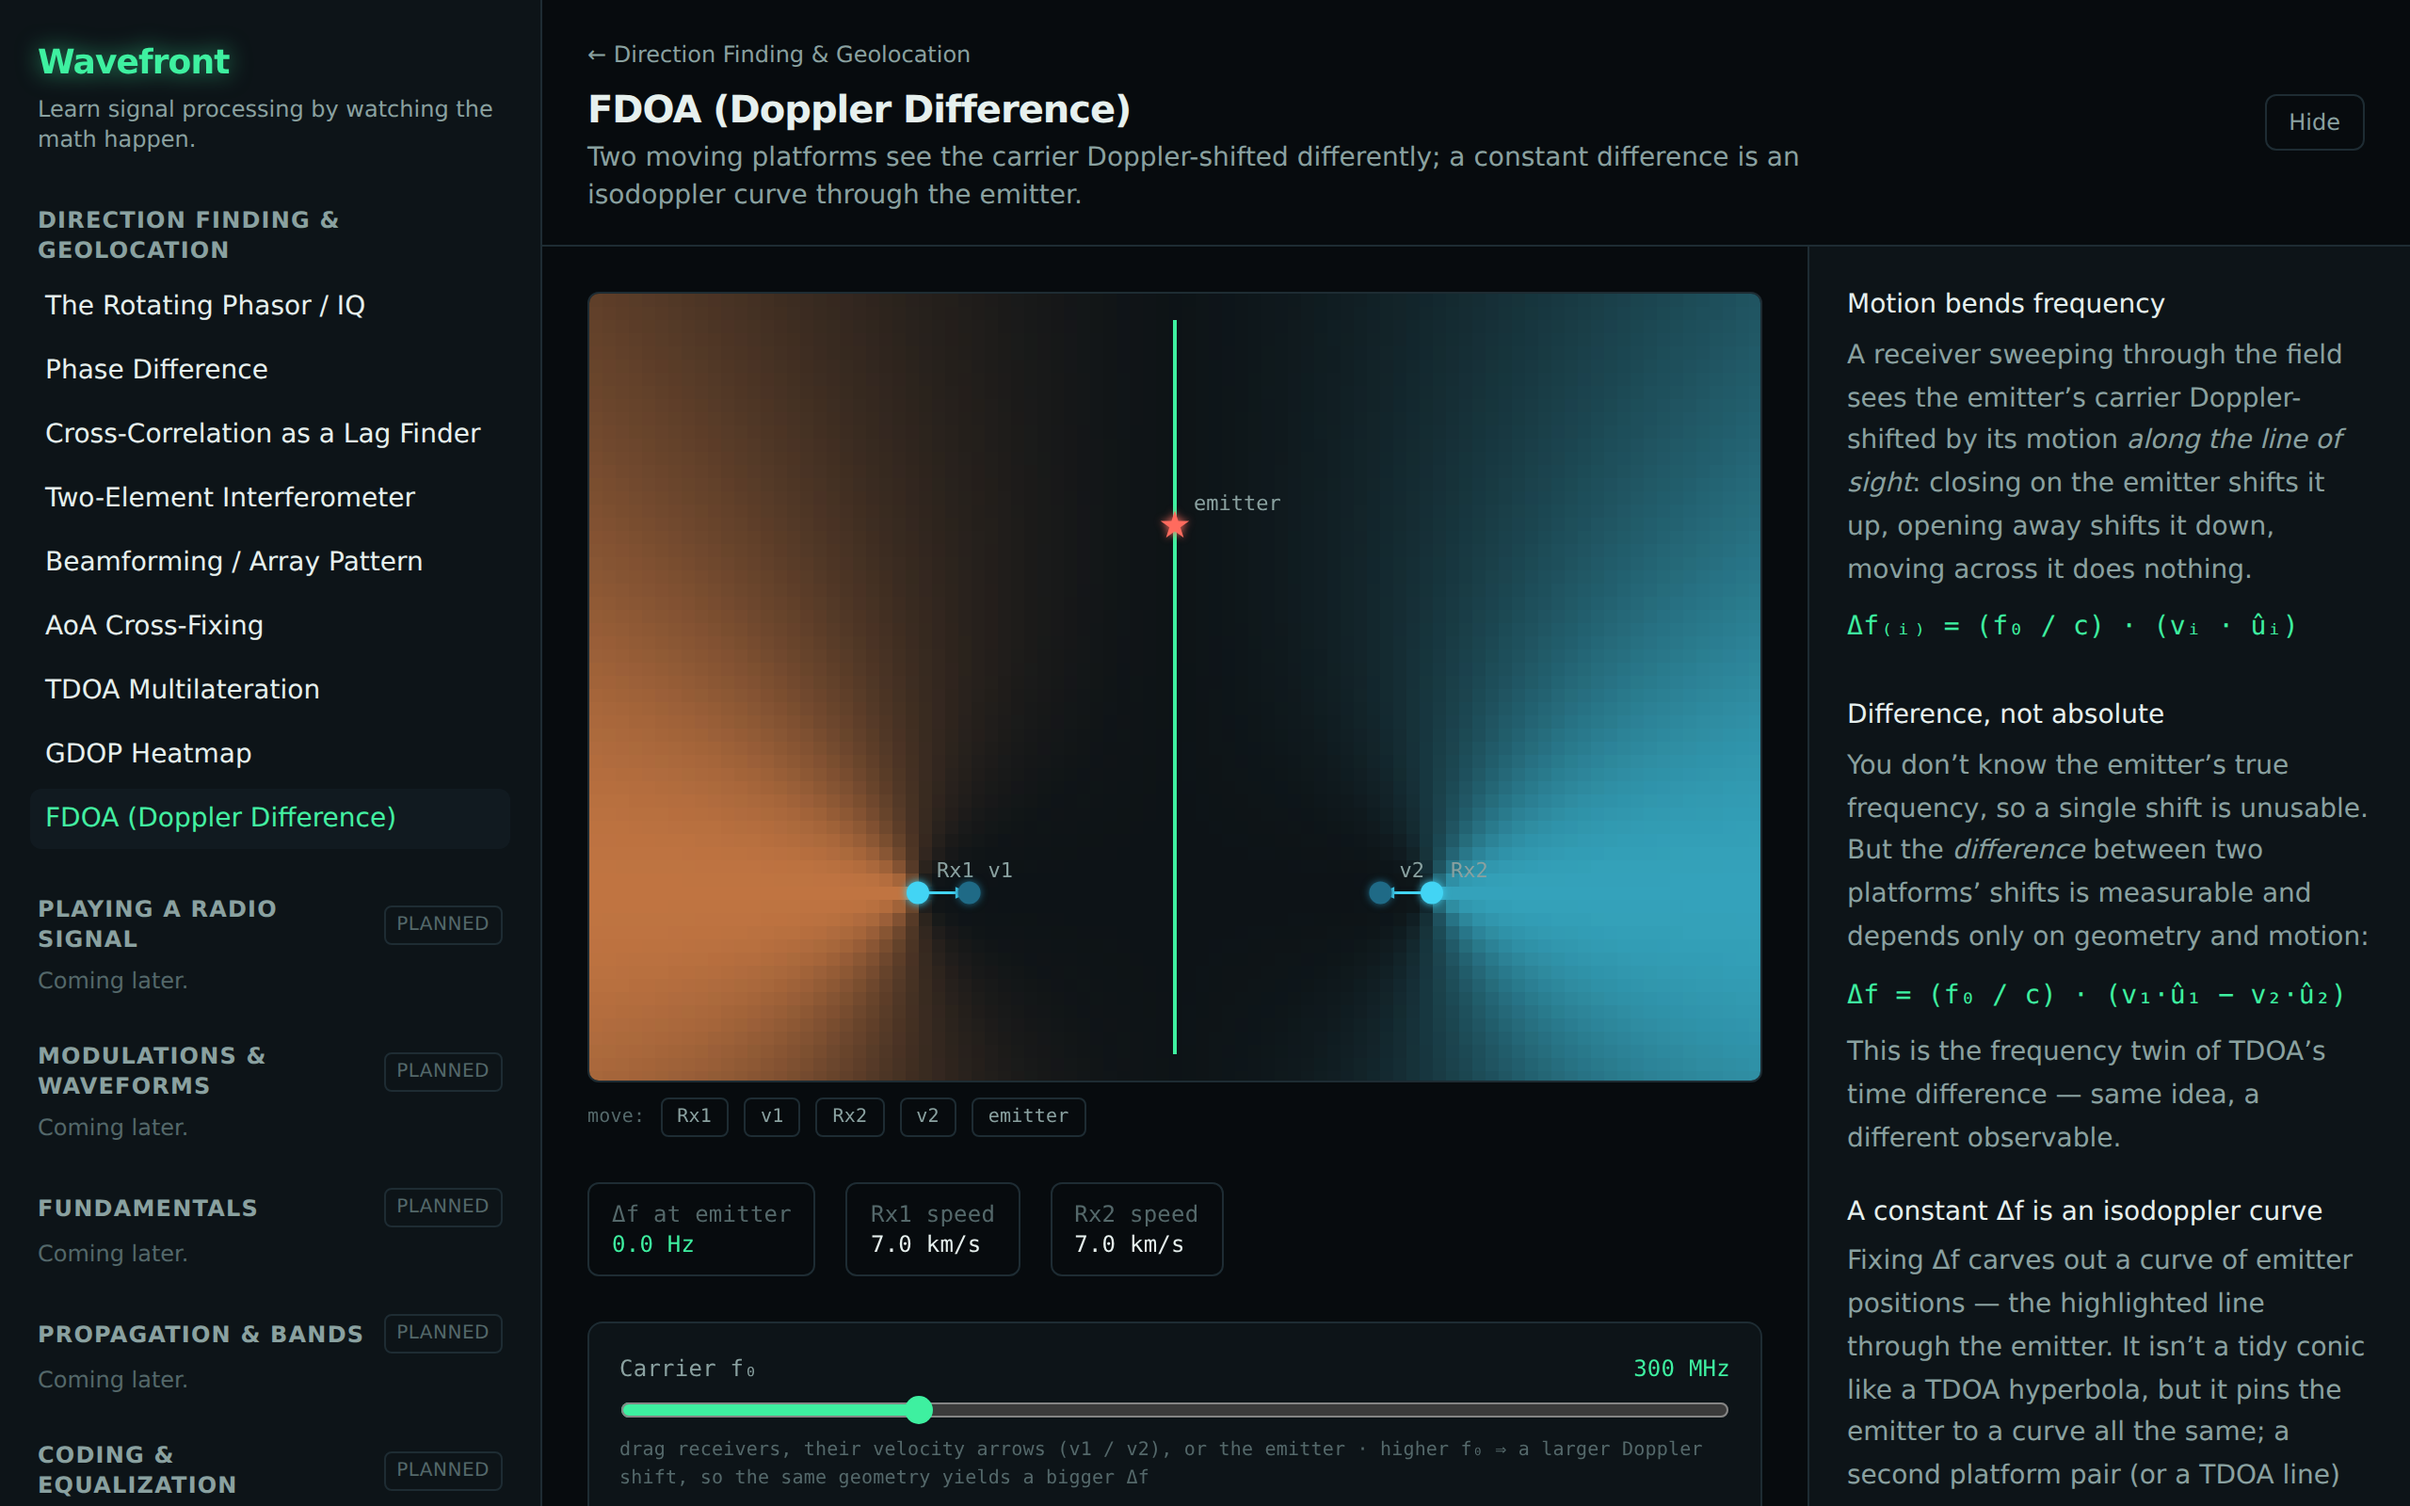
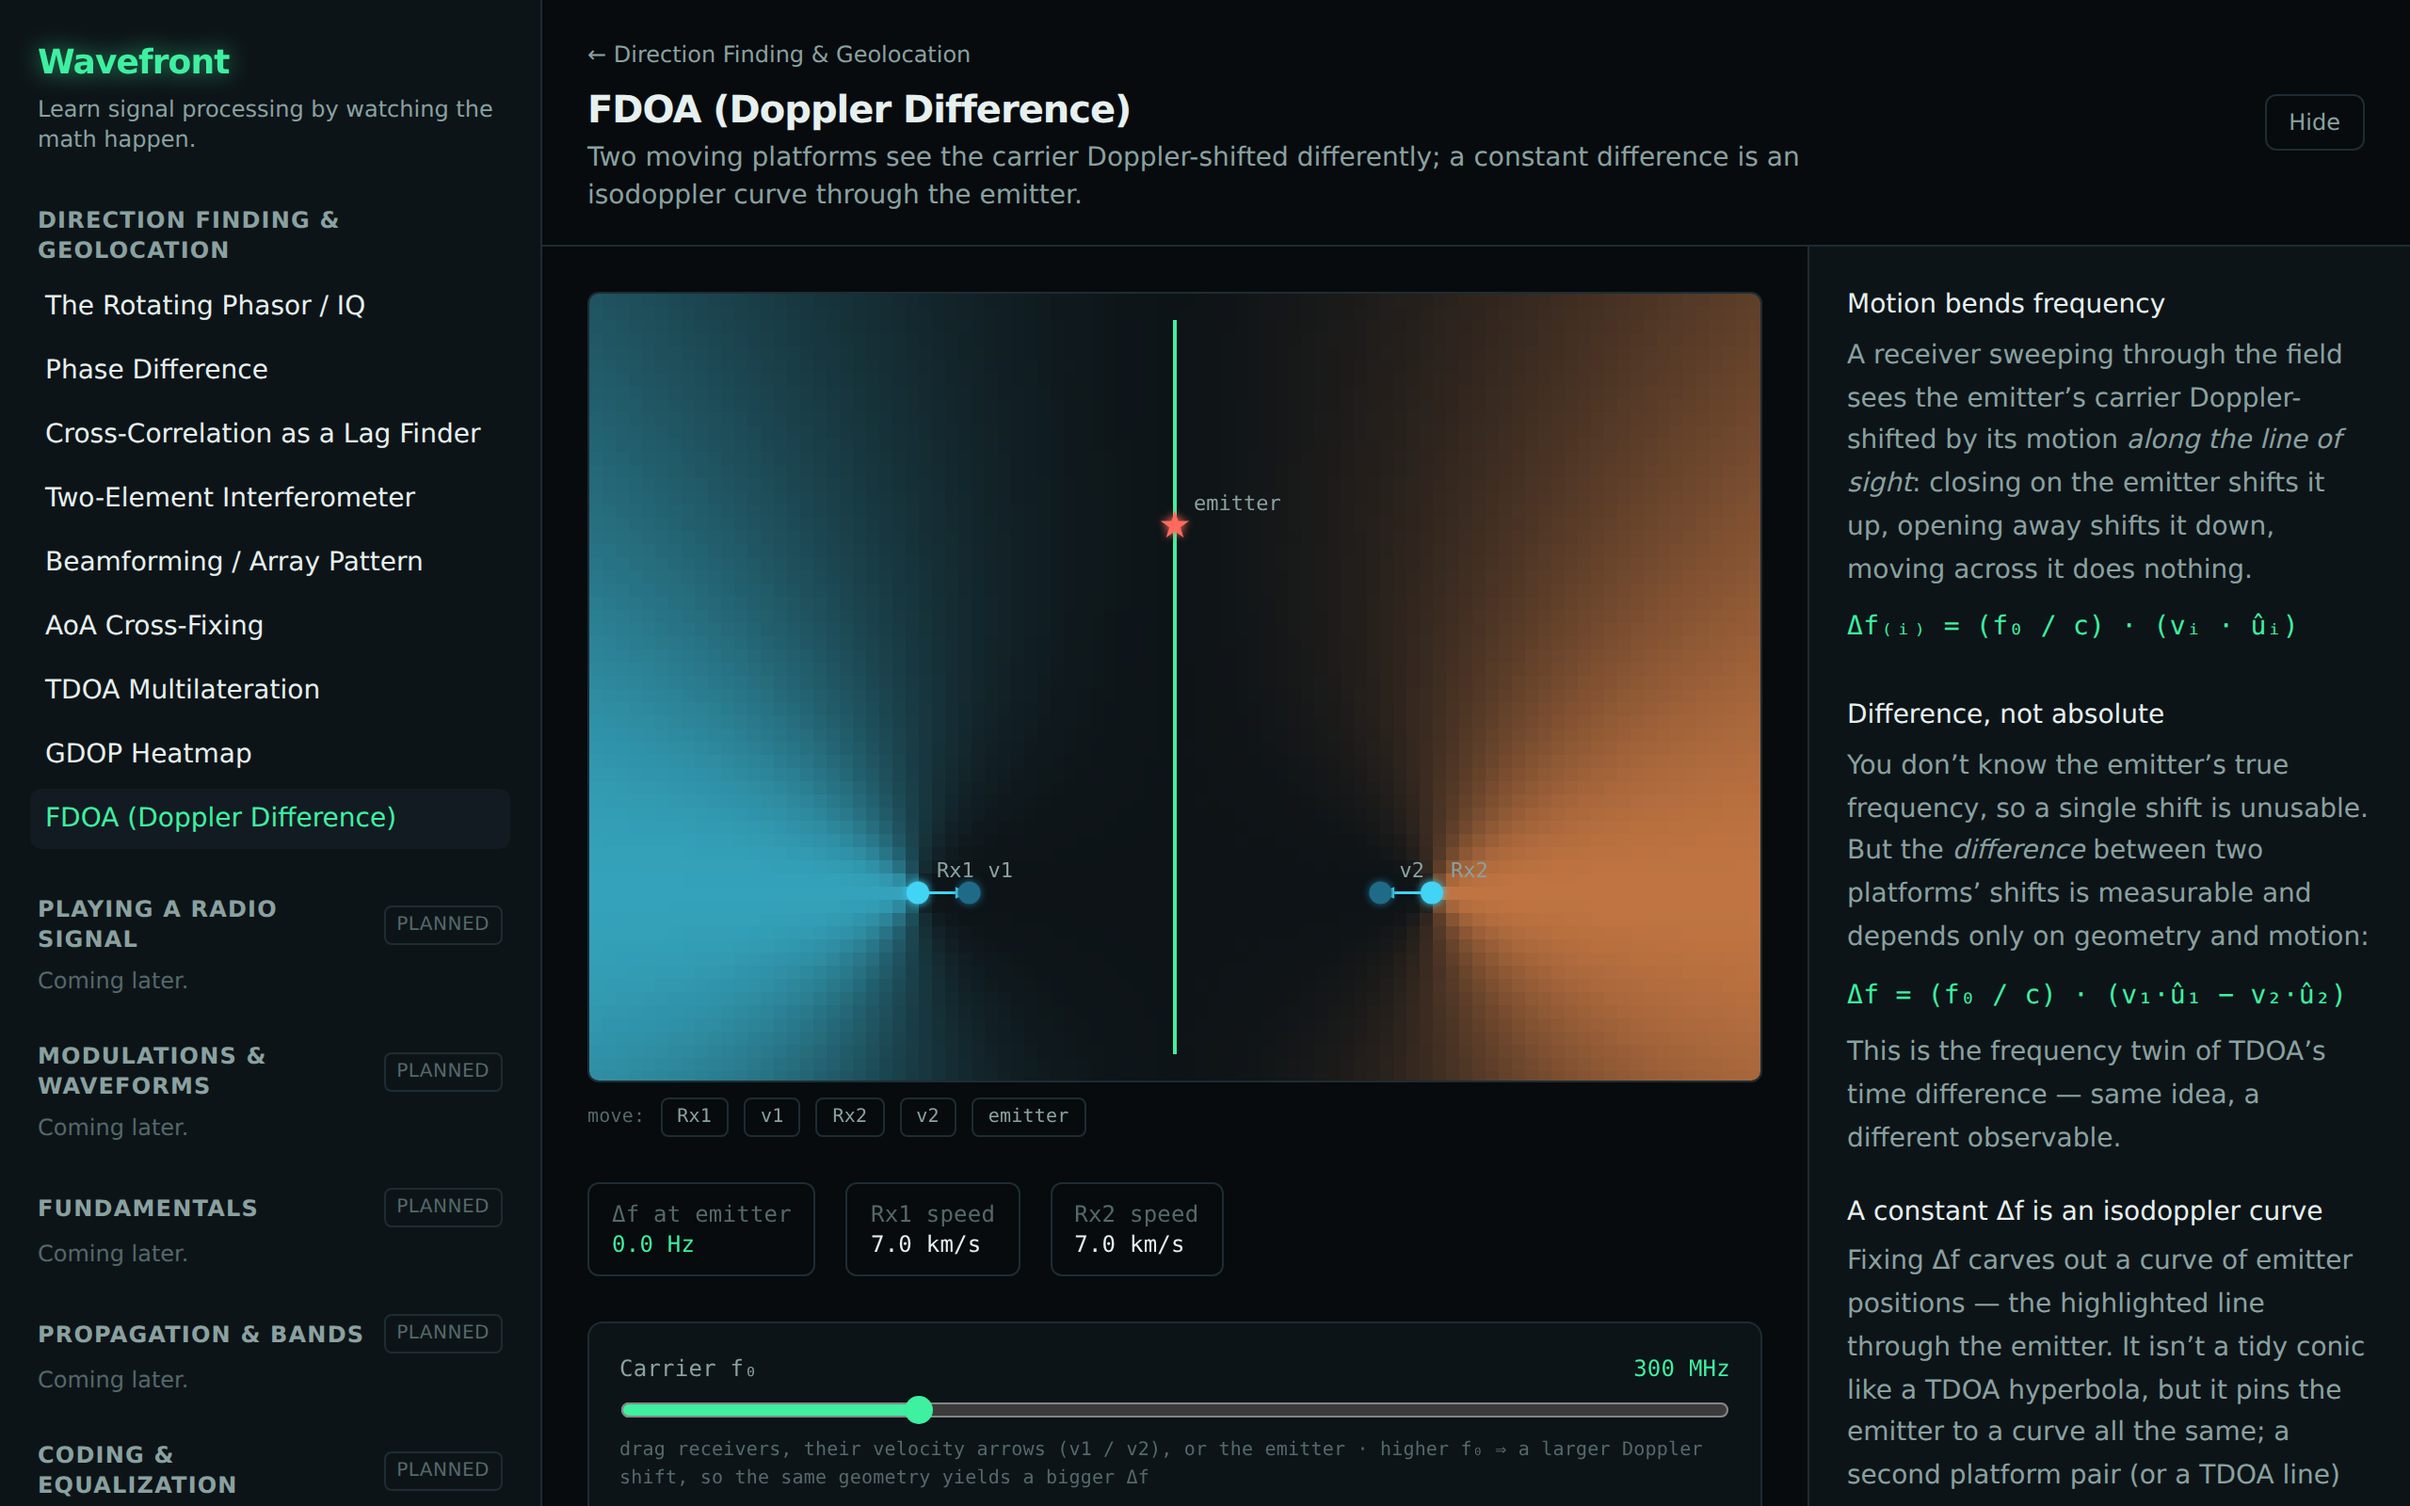
fix(fdoa): match Δf argument order to the displayed formula (Rx1 − Rx2)
The module computed fdoa(emitter, Rx2, Rx1) = Rx2 − Rx1 while the readout, heatmap, and
explanation all present Δf = v₁·û₁ − v₂·û₂ (Rx1 − Rx2), so off the symmetric axis the
displayed sign and +/- colors were inverted relative to the formula. Use Rx1 as the
receiver and Rx2 as the reference in the readout, heatmap field, and isodoppler contour.
Regenerated docs/images/fdoa.png.

Changed region(s): [[0.2188, 0.1875, 0.4062, 0.7188], [0.5625, 0.1875, 0.75, 0.7188]]

diff --git a/src/modules/direction-finding/fdoa/FdoaModule.tsx b/src/modules/direction-finding/fdoa/FdoaModule.tsx
@@ -26,8 +26,9 @@ export function FdoaModule() {
   const [f0MHz, setF0MHz] = useState(300);
 
   const f0 = f0MHz * 1e6;
-  const [rx0, rx1] = receivers;
-  const measured = fdoa(emitter, rx1, rx0, f0, C); // Δf at the true emitter (Hz)
+  const [rx0, rx1] = receivers; // rx0 = Rx1 (the receiver), rx1 = Rx2 (the reference)
+  // Δf at the true emitter (Hz). Argument order matches the displayed formula Δf = v₁·û₁ − v₂·û₂.
+  const measured = fdoa(emitter, rx0, rx1, f0, C);
 
   // Normalize the heatmap to the largest Δf the geometry can produce (both platforms fully radial,
   // opposed): keeps the colour scale meaningful as f0 / velocities change.
@@ -98,7 +99,7 @@ export function FdoaModule() {
       ctx.fill();
     }
     // Isodoppler curve through the emitter (the level set Δf = measured).
-    const segs = isoContour((x, y) => fdoa({ x, y }, rx1, rx0, f0, C), WORLD, measured, 90);
+    const segs = isoContour((x, y) => fdoa({ x, y }, rx0, rx1, f0, C), WORLD, measured, 90);
     ctx.strokeStyle = colors.signal;
     ctx.lineWidth = 2;
     ctx.beginPath();
@@ -119,7 +120,7 @@ export function FdoaModule() {
         onPointMove={onPointMove}
         draw={draw}
         field={{
-          value: (x, y) => fdoa({ x, y }, rx1, rx0, f0, C),
+          value: (x, y) => fdoa({ x, y }, rx0, rx1, f0, C),
           color: (v) => fdoaColor(v, fMax),
           resolution: 56,
         }}
